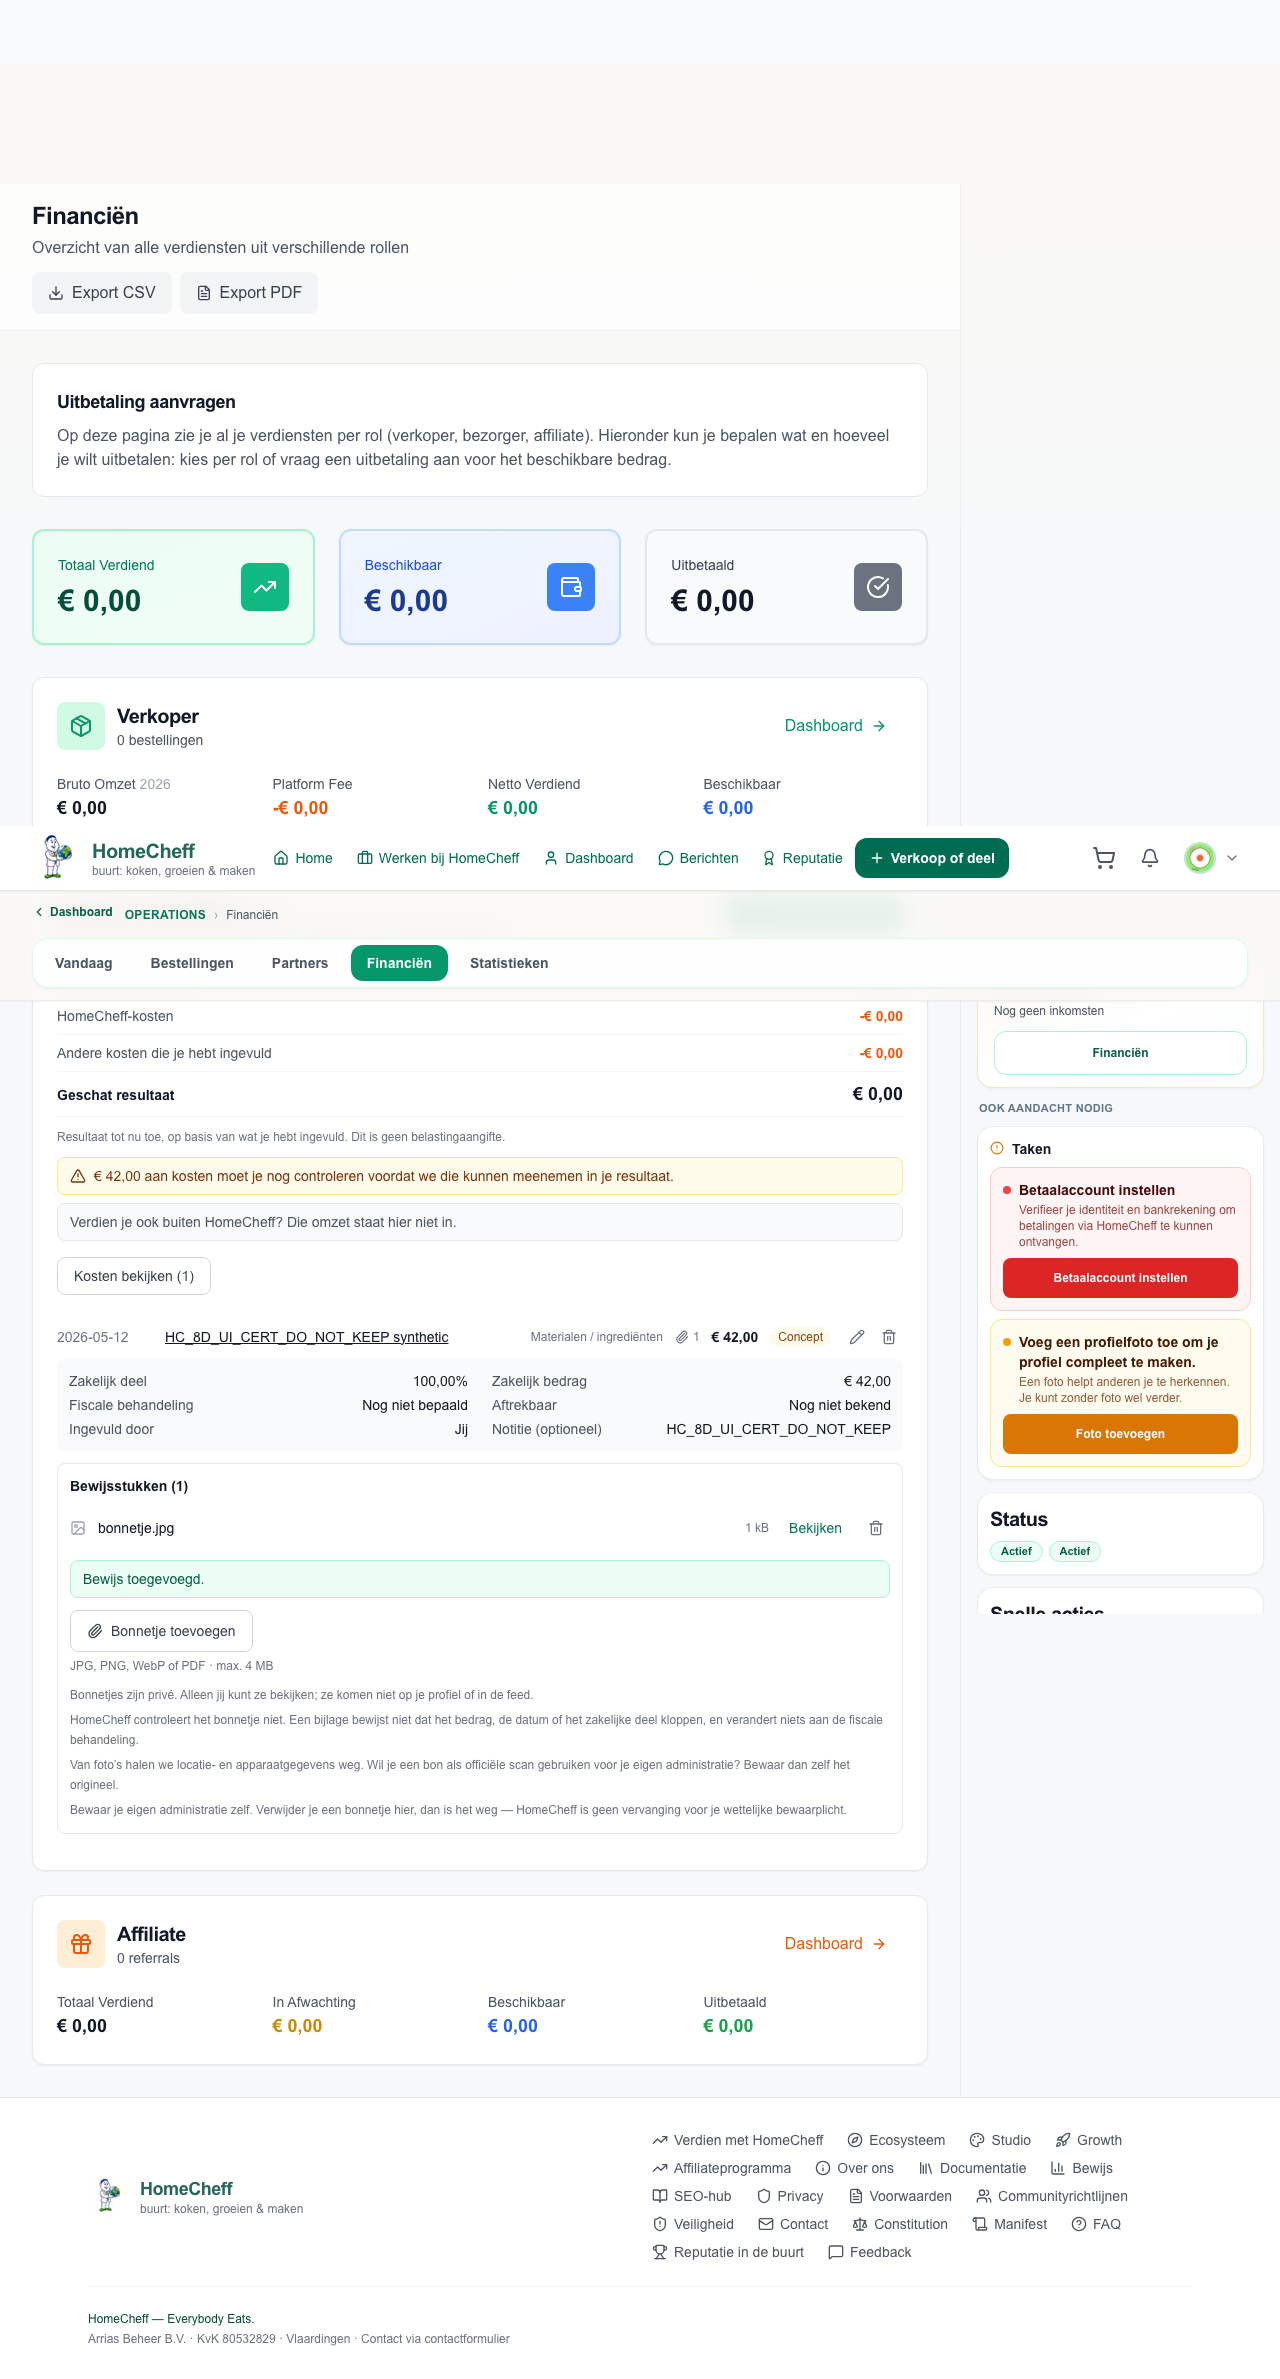
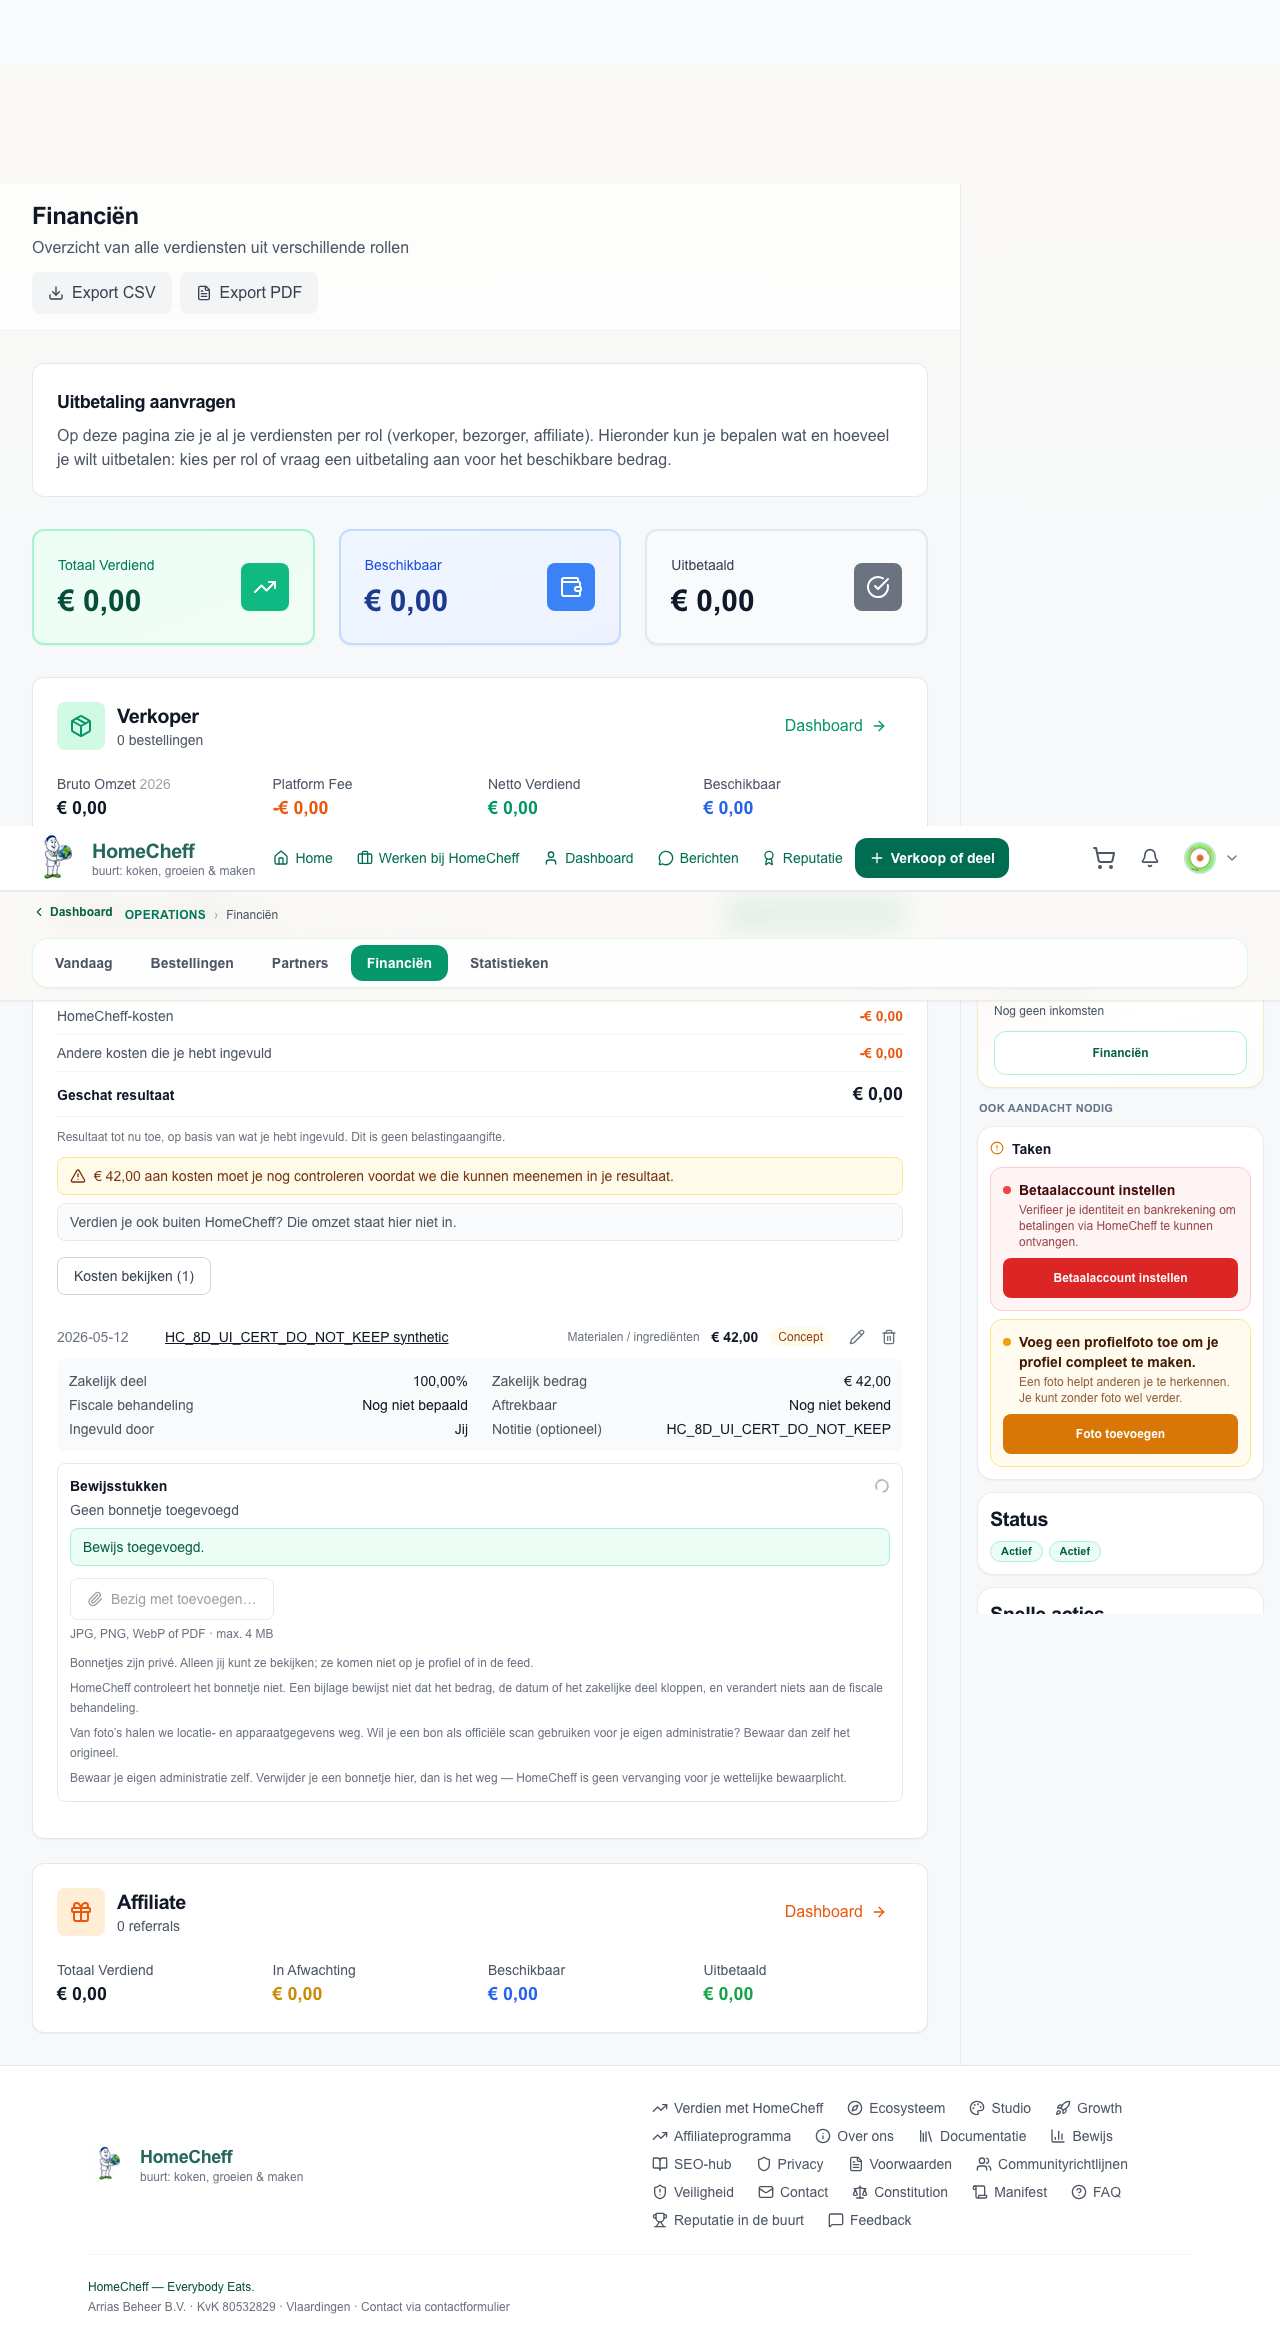
Phase 8D: keep the receipt controls clear of the bottom navigation
On a 390px screen the browser scrolled the upload control to the bottom
edge, where the fixed nav covers it. Both the panel and the control now
carry scroll-margin derived from --hc-bottom-nav-offset, so scrolling
them into view leaves the nav's own height free.

diff --git a/components/seller/ExpenseEvidencePanel.tsx b/components/seller/ExpenseEvidencePanel.tsx
@@ -48,6 +48,15 @@ const MAX_LABEL = `${Math.round(MAX_EVIDENCE_BYTES / (1024 * 1024))} MB`;
 
 const contentUrl = (id: string) => `/api/seller/evidence/${id}/content`;
 
+/**
+ * Keeps the fixed bottom navigation clear when the browser scrolls one of these
+ * elements into view — on focus, or when the expense row expands. Without it the
+ * upload control lands underneath the nav on a 390px screen, which is the trap
+ * Phase 8C hit with the expense dialog. `--hc-bottom-nav-offset` is the app
+ * chrome's own measurement of the nav, so this follows it rather than guessing.
+ */
+const NAV_CLEARANCE = { scrollMarginBottom: 'calc(var(--hc-bottom-nav-offset, 0px) + 1rem)' } as const;
+
 export default function ExpenseEvidencePanel({
   expenseId,
   onCountChange,
@@ -152,7 +161,7 @@ export default function ExpenseEvidencePanel({
     : null;
 
   return (
-    <div className="mt-3 rounded-lg border border-gray-200 bg-white p-3">
+    <div className="mt-3 rounded-lg border border-gray-200 bg-white p-3" style={NAV_CLEARANCE}>
       <div className="flex items-center justify-between gap-3">
         <h4 className="text-sm font-semibold text-gray-900">
           {items.length > 0
@@ -231,9 +240,10 @@ export default function ExpenseEvidencePanel({
         </p>
       ) : null}
 
-      <div className="mt-3">
+      <div className="mt-3" style={NAV_CLEARANCE}>
         <label
           htmlFor={inputId}
+          style={NAV_CLEARANCE}
           className={`inline-flex min-h-11 cursor-pointer items-center gap-2 rounded-lg border border-gray-300 px-4 py-2.5 text-sm font-medium text-gray-700 hover:bg-gray-50 focus-within:outline focus-within:outline-2 focus-within:outline-offset-2 focus-within:outline-emerald-700 ${
             atLimit || busy ? 'pointer-events-none opacity-50' : ''
           }`}
